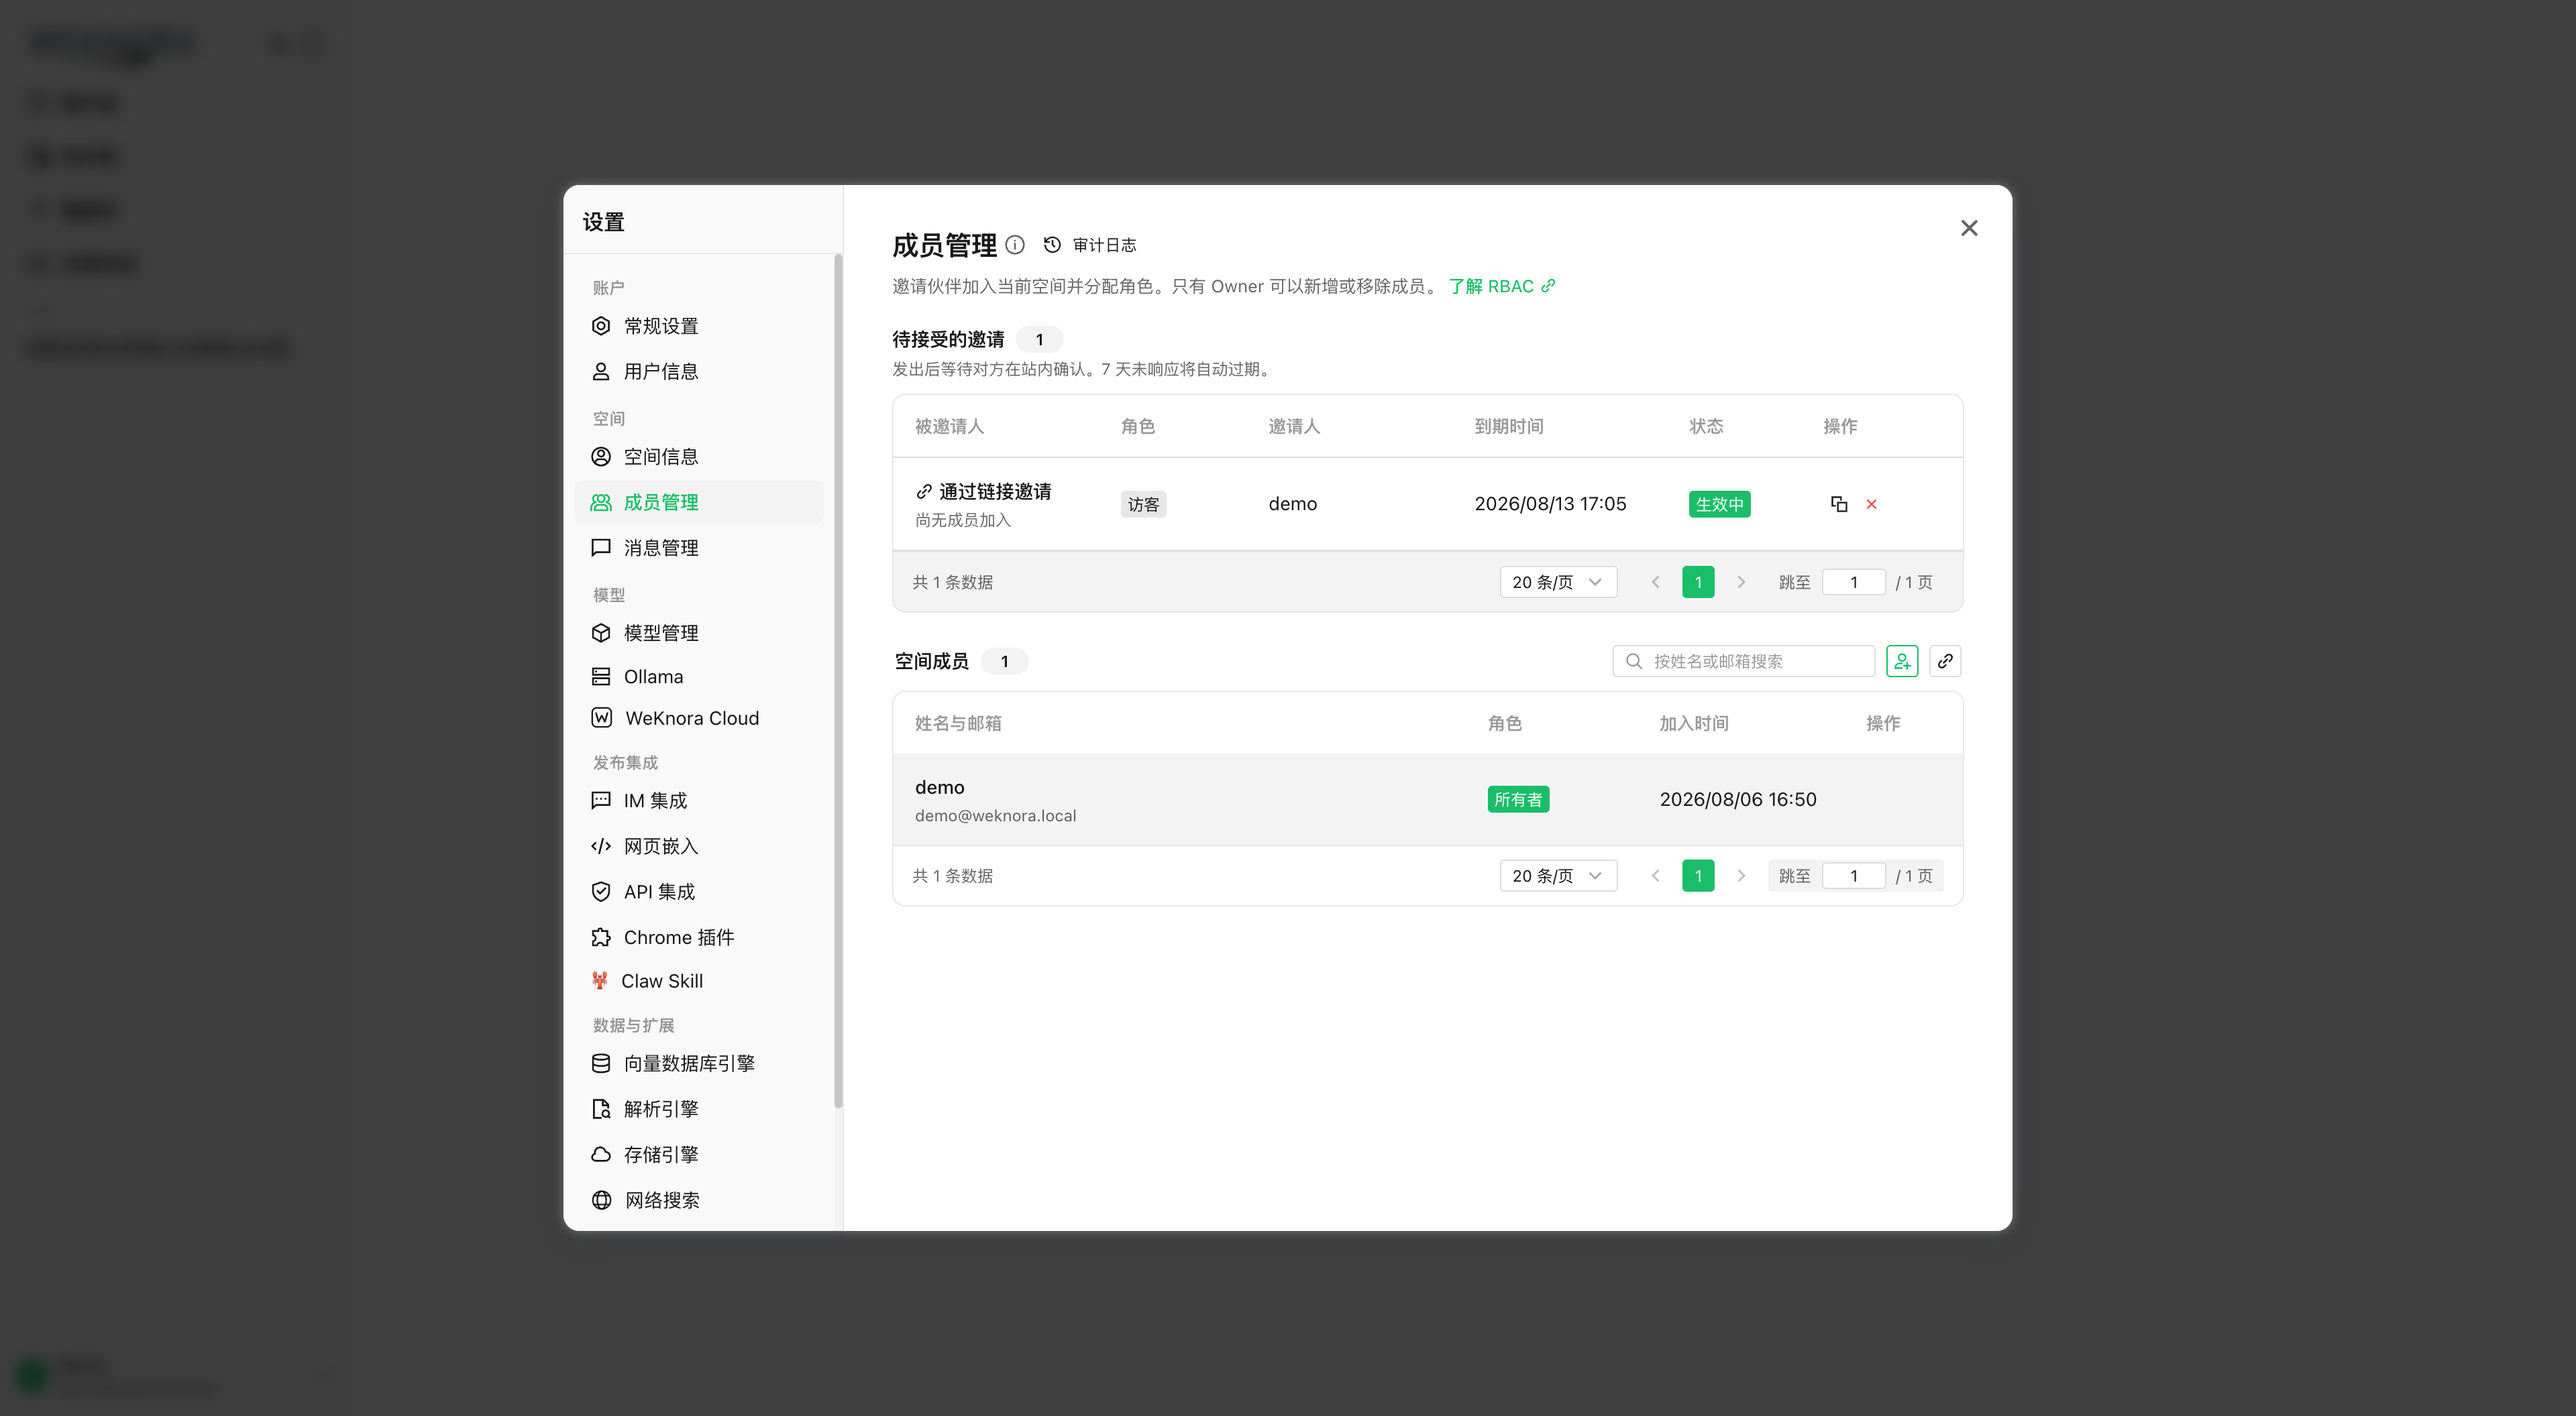
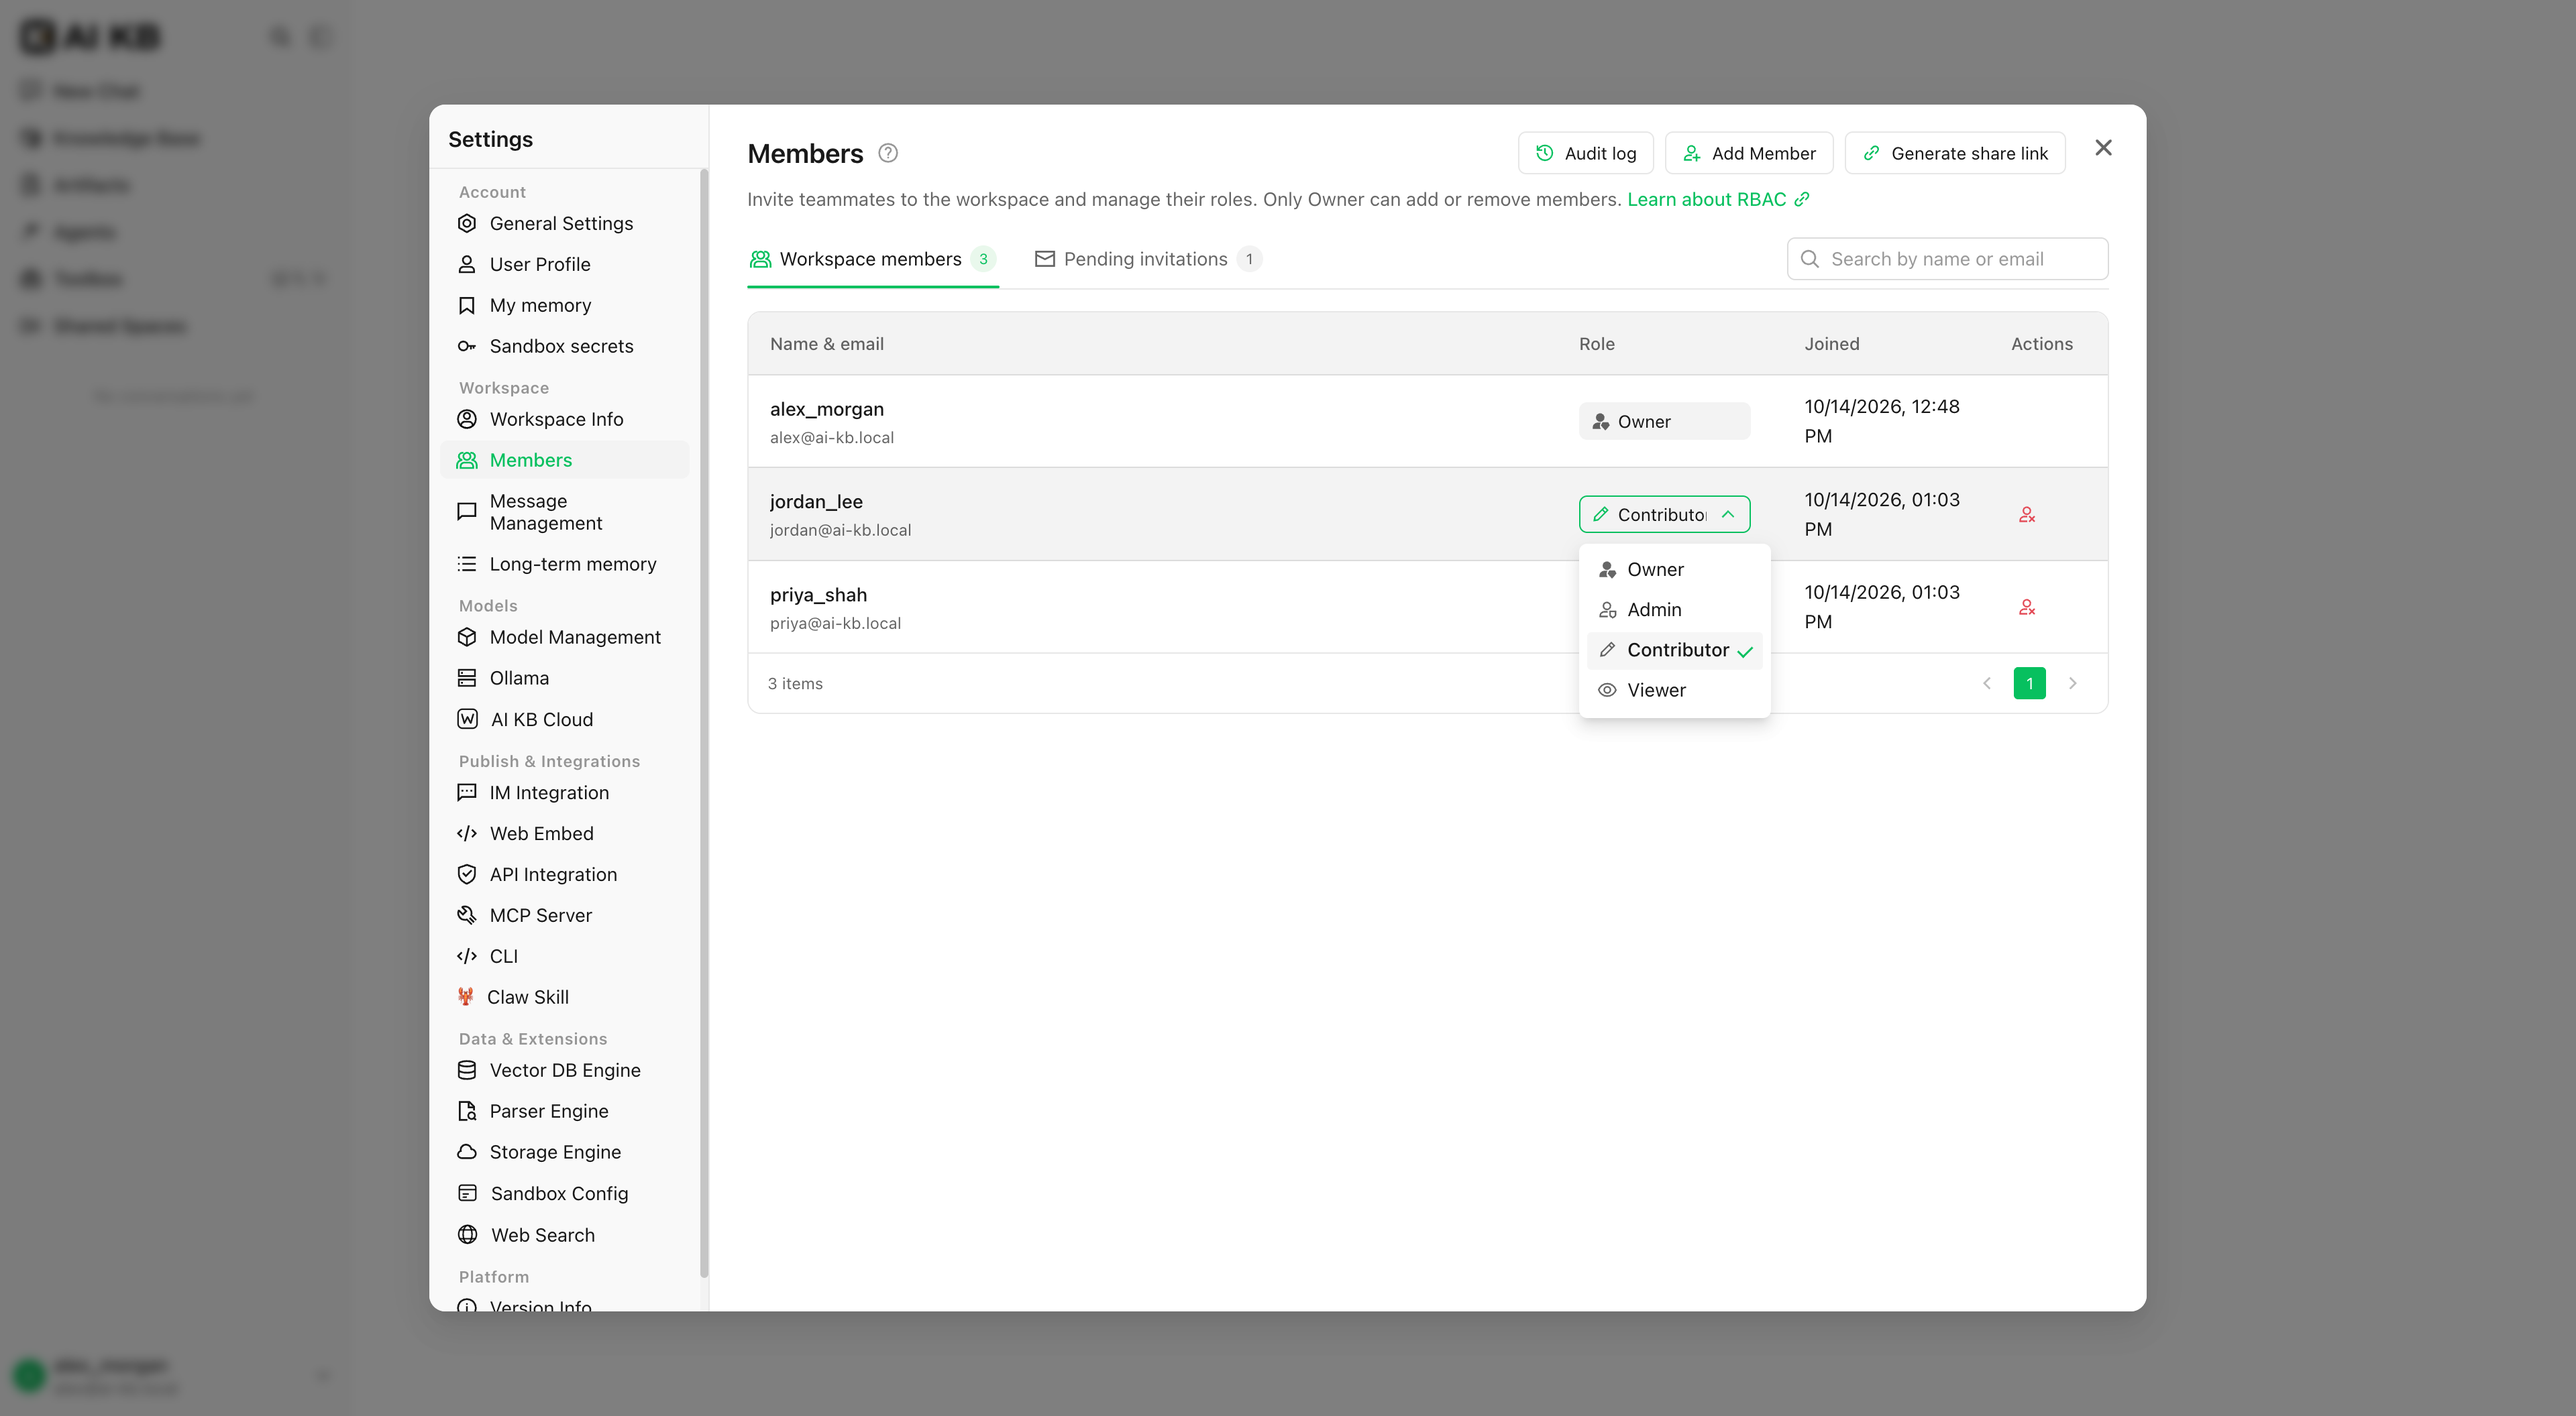
docs(site): recapture product screenshots in English from the running app
26 docs screenshots and 6 homepage gallery images, 3840 x 2112 from the dev
stack with the sample-data corpus (Acme Corp workspace, llama.cpp models).
Still upstream images: browser-connection and local-browser-task (need a
paired BrowserSkill browser), observability-langfuse (needs Langfuse),
sandbox-desktop (needs a Cube or E2B desktop template), queue-dashboard and
settings-system-admin (need a system administrator), embed-channel-preview
(unused).

diff --git a/website-docs/homepage/BRAND-ASSETS.md b/website-docs/homepage/BRAND-ASSETS.md
@@ -22,4 +22,6 @@ The upstream screenshots showed the upstream logo and a Chinese UI, so they were
 
 Captured on 2026-10-13 from the development stack with the `website-docs/sample-data/` corpus: `mcp-server-endpoint.png`, `skill-catalog.png` and `agent-chat.png`, the video poster (a Quick Answer turn with its sources panel; the answer text quotes the sample product manual and FAQ).
 
-Still pending: `local-browser-task.png` and `browser-connection.png` (need a paired BrowserSkill browser), `chat-steer-queue.png` (needs a Smart Reasoning run with queued messages), `wiki-graph.png`, `wiki-browser.png` and `wiki-revision-history.png` (need a generated wiki), and `skill-sandbox-chat.png`, `sandbox-desktop.png` and `sandbox-terminal.png` (need a configured sandbox).
+Captured on 2026-10-14 the same way: `chat-steer-queue.png` (a Smart Reasoning run with queued messages), `wiki-browser.png`, `wiki-graph.png` and `wiki-revision-history.png` (a generated wiki), `skill-sandbox-chat.png` and `sandbox-terminal.png` (a Docker sandbox).
+
+Still pending: `local-browser-task.png` and `browser-connection.png` (need a paired BrowserSkill browser) and `sandbox-desktop.png` (needs a Cube or E2B sandbox with a desktop template; Docker sandboxes have no desktop).
